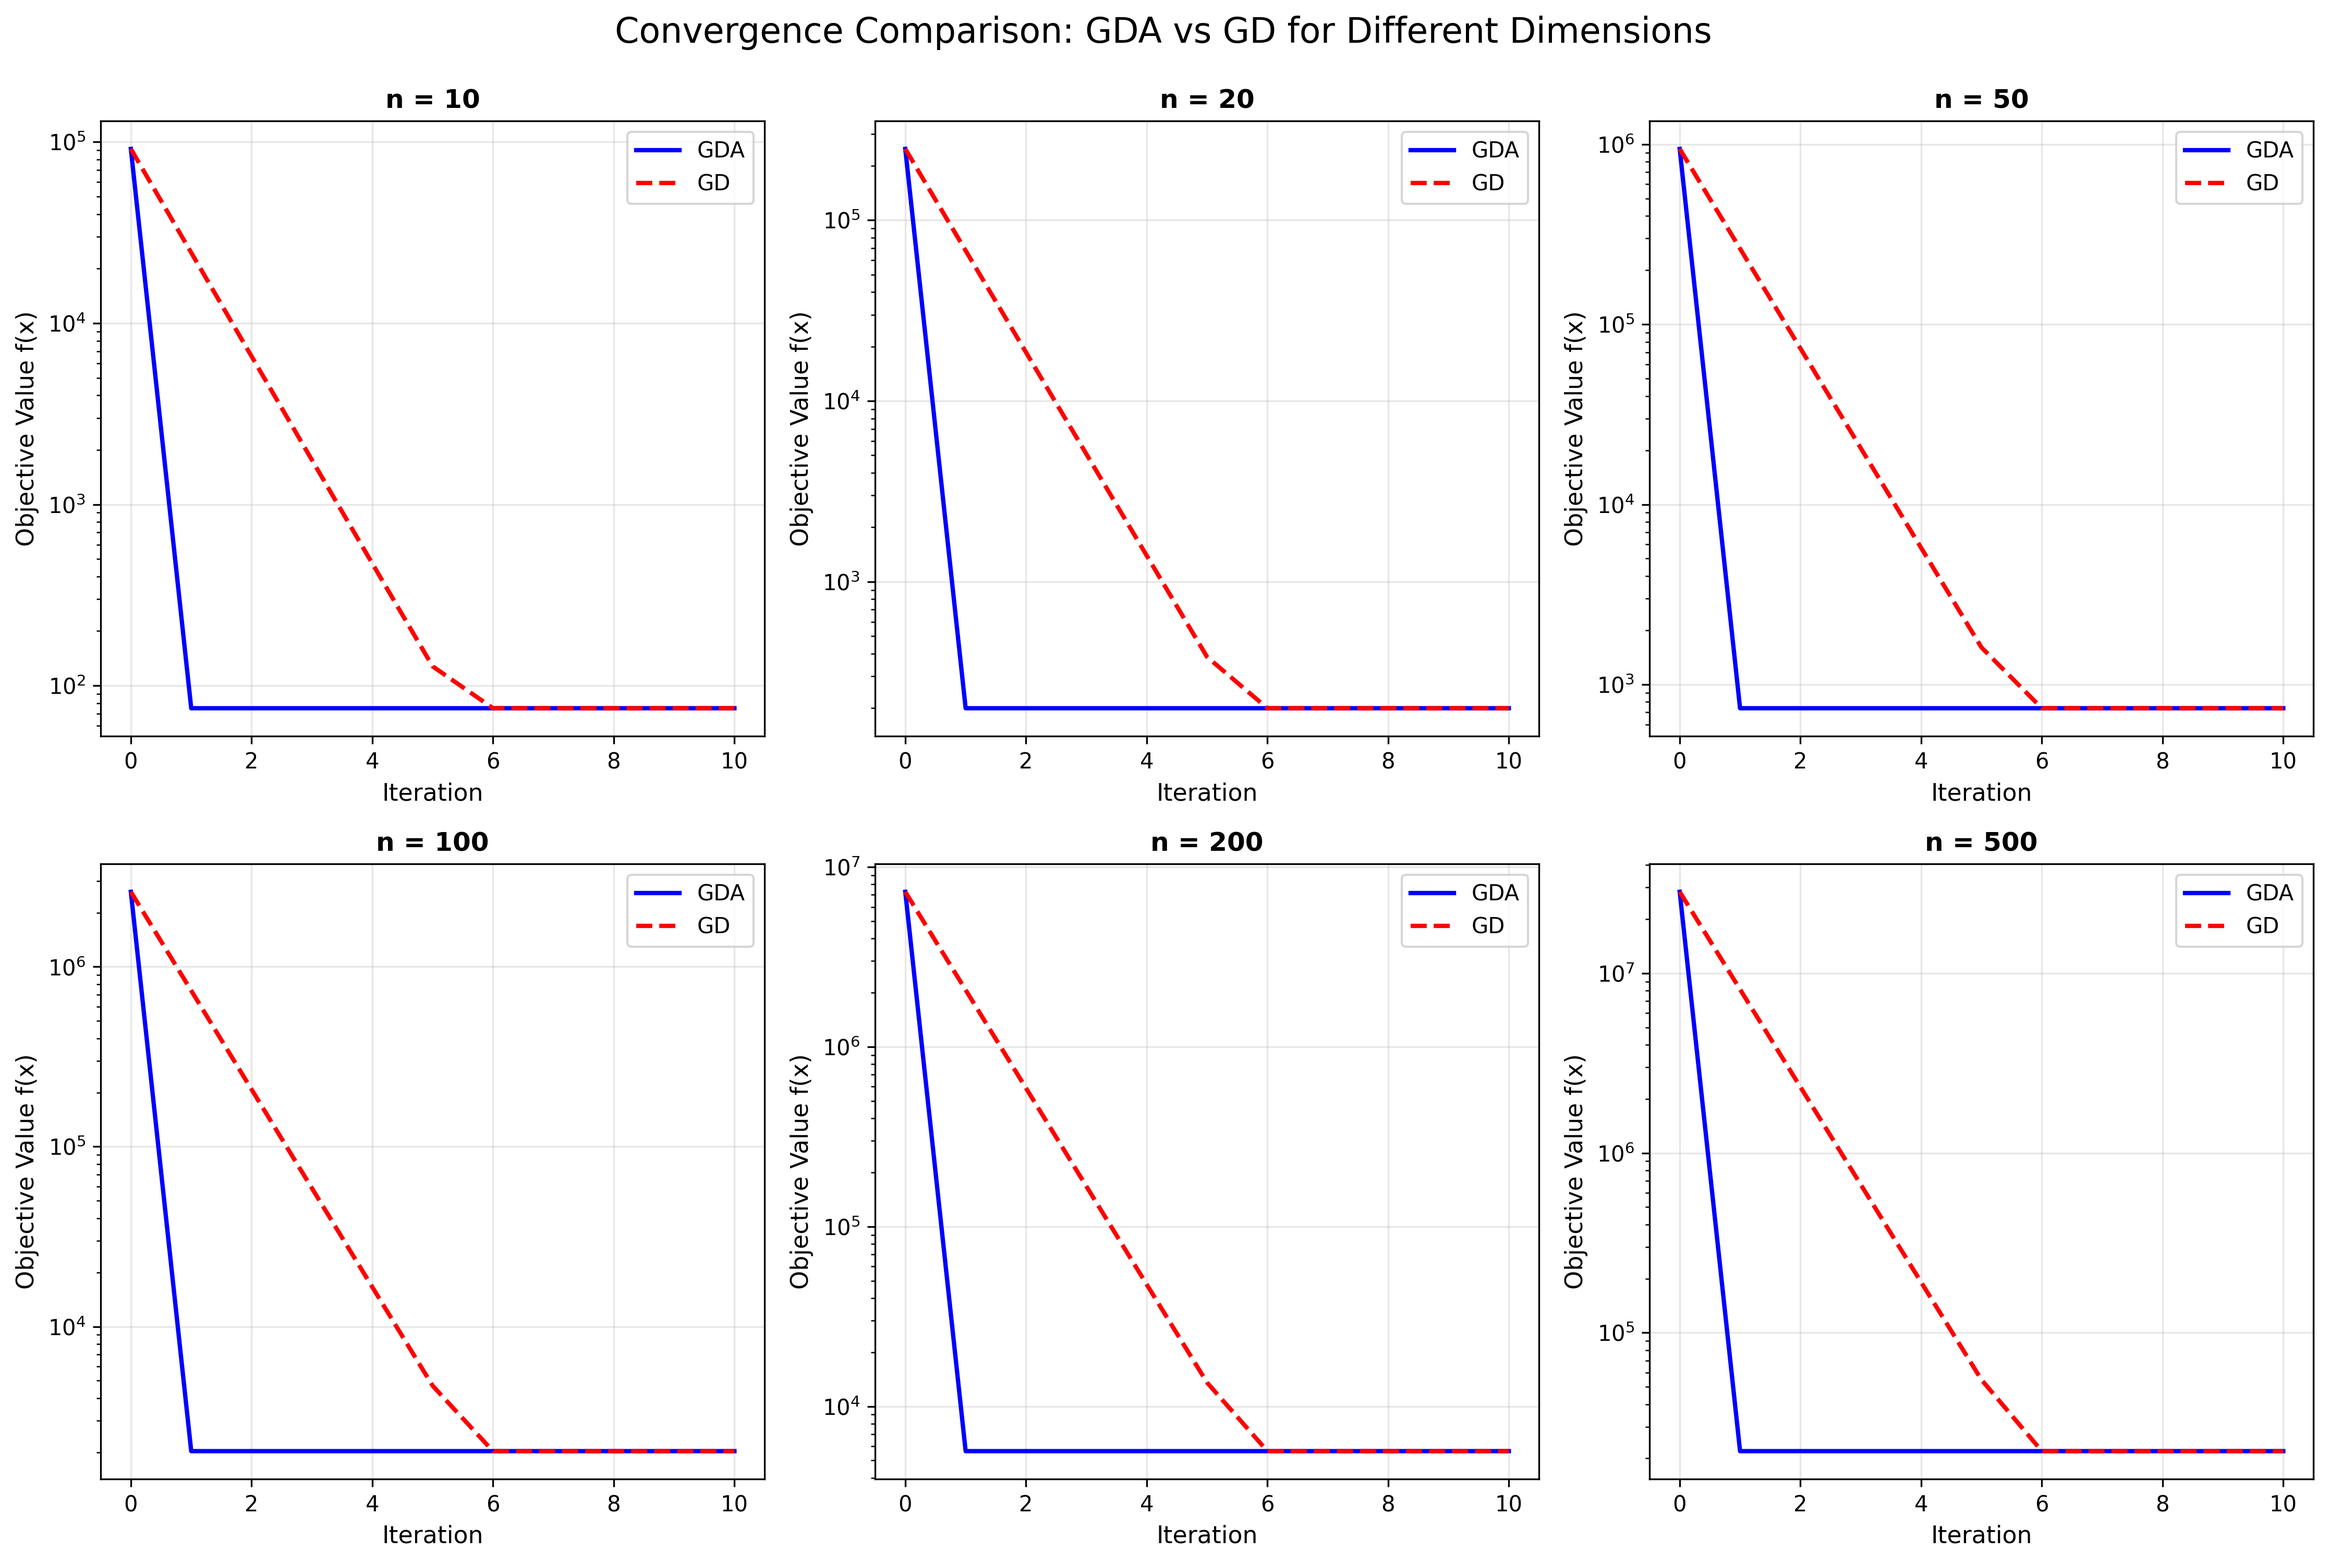
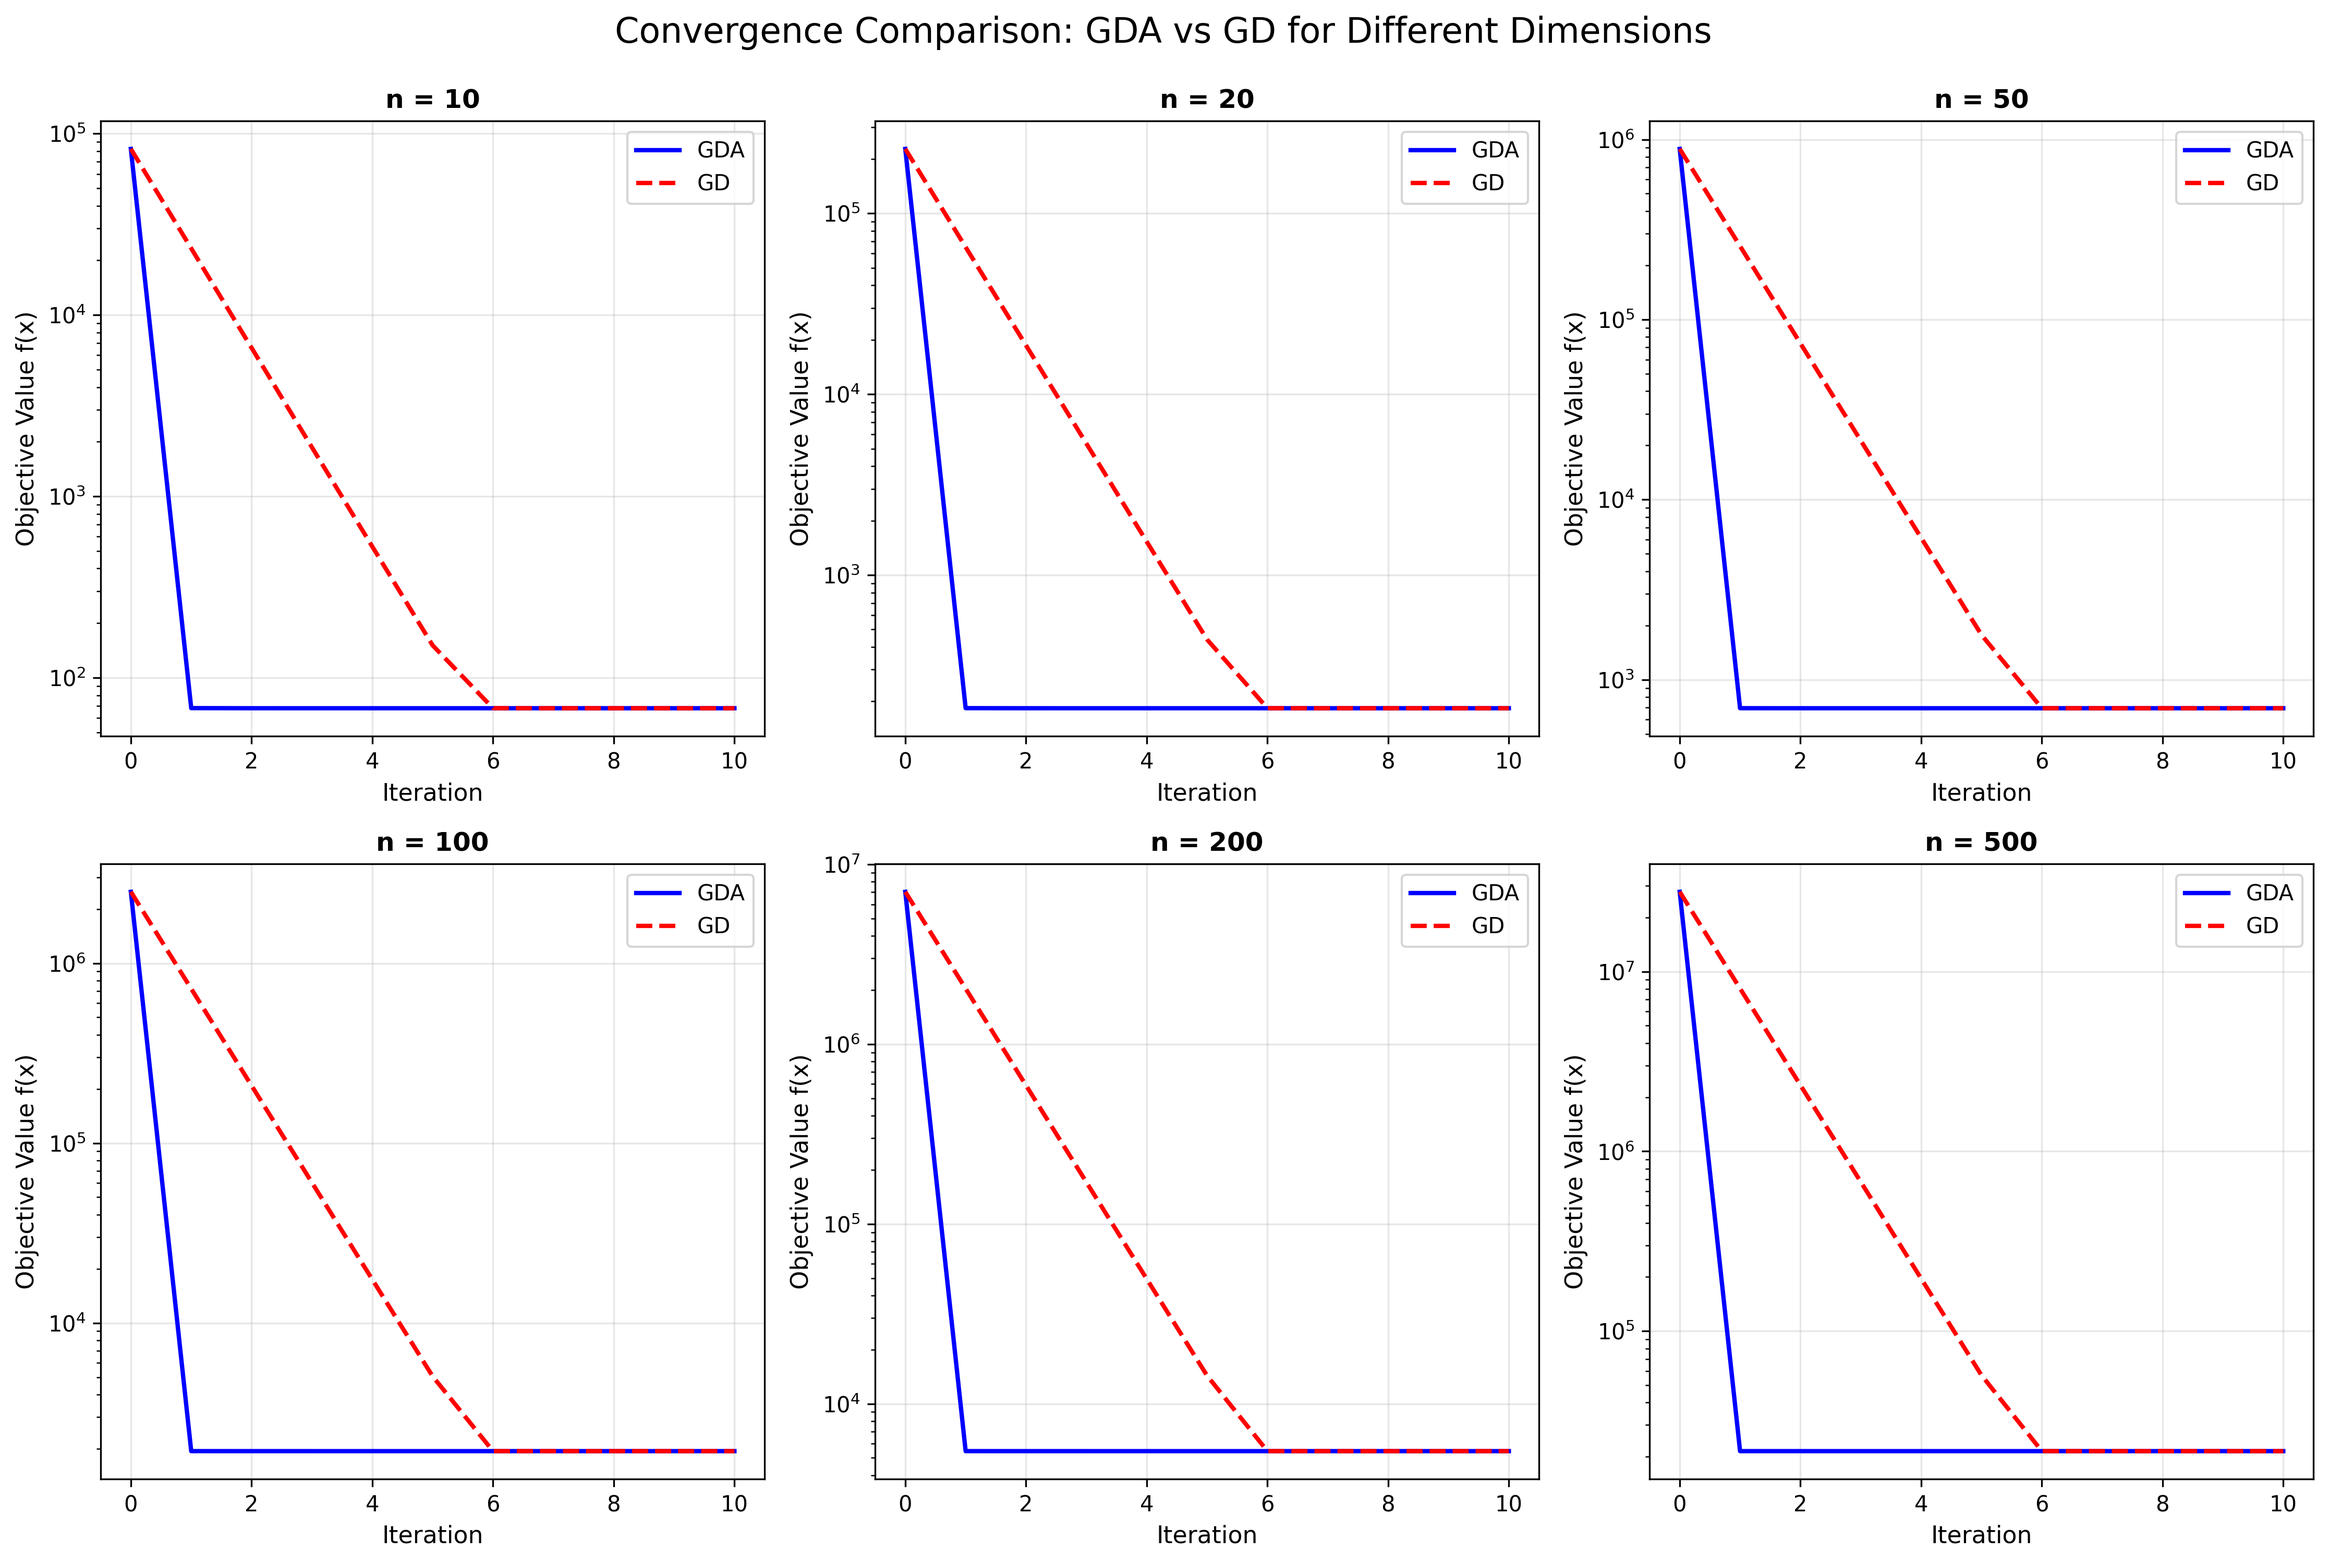
fix ex3

diff --git a/src/examples/compare_convergence_example3.py b/src/examples/compare_convergence_example3.py
@@ -23,7 +23,7 @@ def create_problem(n):
     """Create problem instance for dimension n"""
     # Parameters
     beta = 0.741271
-    alpha = 3 * (beta ** 1.5) * np.sqrt(n) + 1
+    alpha = 3 * (beta ** 1.5) * np.sqrt(n + 1)
     
     # Random vectors (fixed seed for reproducibility)
     torch.manual_seed(42)
@@ -238,7 +238,7 @@ Step sizes:
             step_size=lambda_gda,
             sigma=0.1,
             kappa=0.1,
-            max_iter=5,
+            max_iter=10,
             tol=1e-6,
             return_history=True
         )
@@ -257,7 +257,7 @@ Step sizes:
             proj_func=proj_func,
             x0= torch.ones(n) * 36.0 ,  # Worse initialization for GD
             step_size=lambda_gd,
-            max_iter=5,
+            max_iter=10,
             tol=1e-6,
             return_history=True
         )
